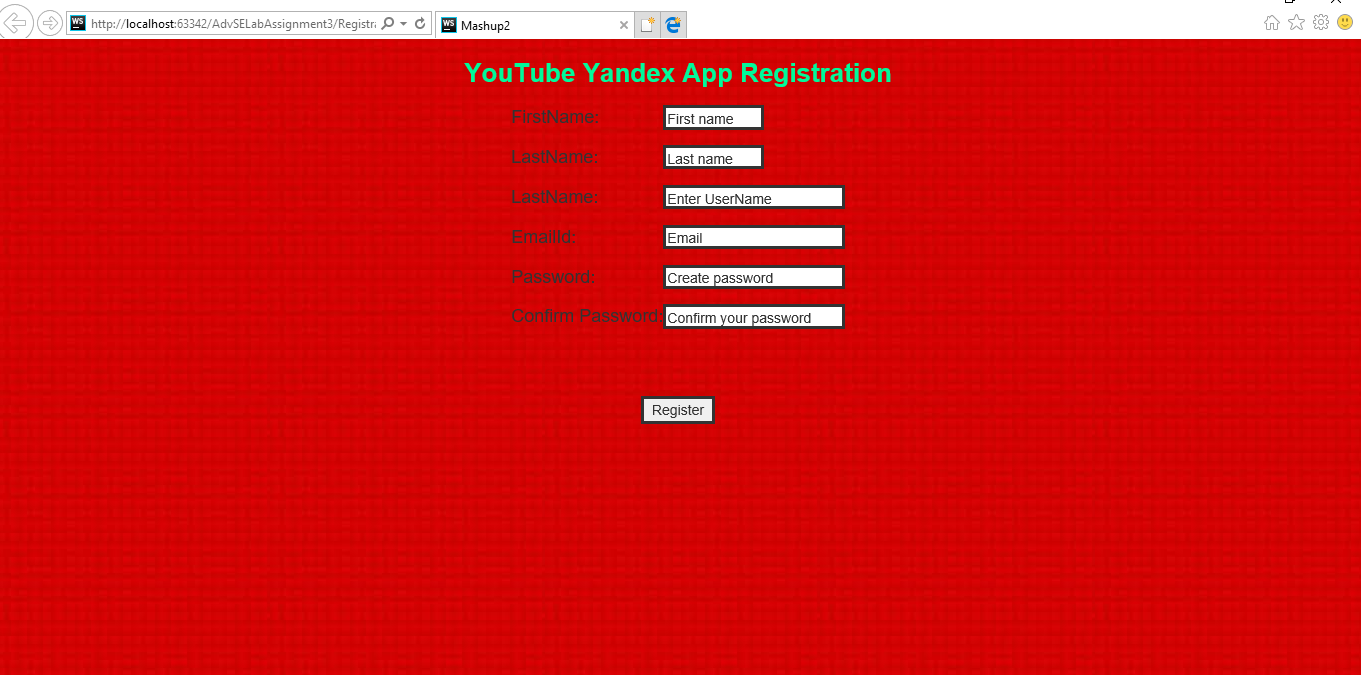
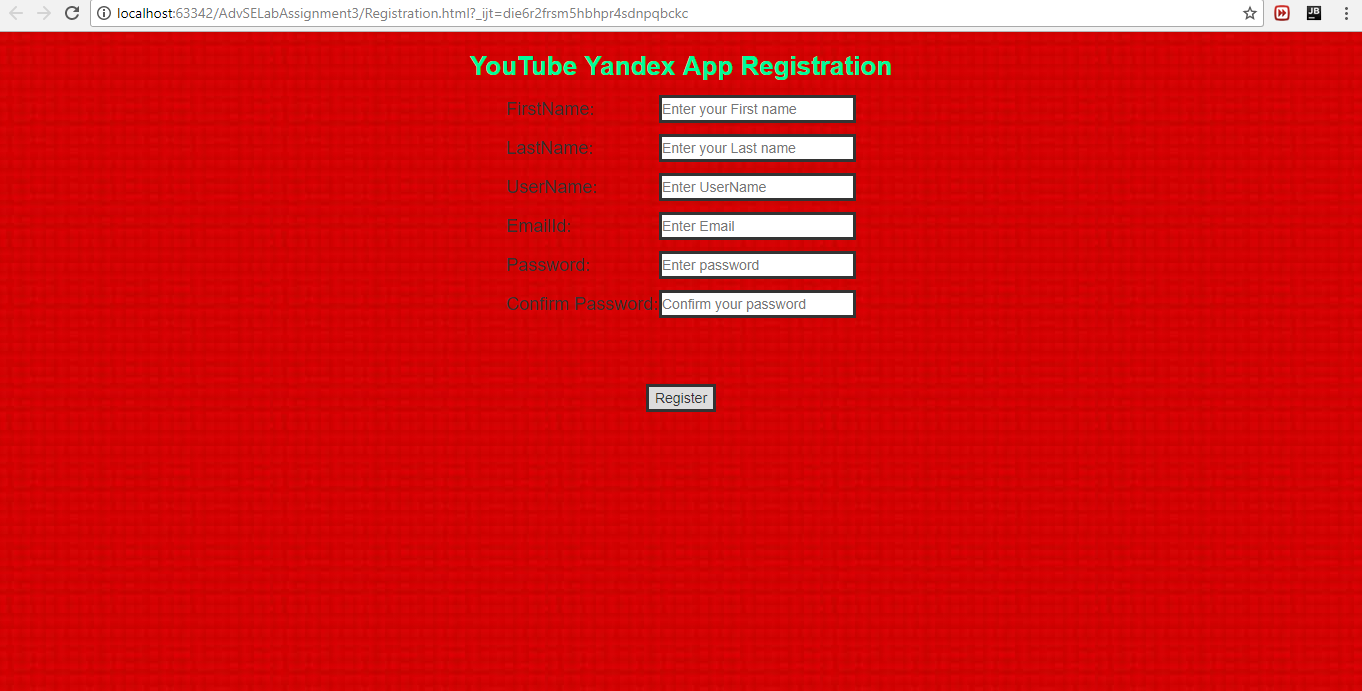
MODIFIED
MODIFIED

Changed region(s): [[0.0, 0.0, 1.0, 0.4978], [0.4629, 0.5289, 0.5246, 0.6533]]

diff --git a/source/AdvSELabAssignment3/Registration.html b/source/AdvSELabAssignment3/Registration.html
@@ -38,11 +38,11 @@
         <table align="center">
             <tr>
                 <td><h4>FirstName:</h4></td>
-                <td><input id="fn" style="border: solid" type="text"  name="firstName" placeholder="First name" size="10" value=""/></td>
+                <td><input id="fn" style="border: solid" type="text"  name="firstName" placeholder="Enter your First name" size="23" value=""/></td>
             </tr>
             <tr>
                 <td><h4>LastName:</h4></td>
-                <td><input id="ln" type="text" style="border: solid" name="lastName" placeholder="Last name" size="10" value=""/></td>
+                <td><input id="ln" type="text" style="border: solid" name="lastName" placeholder="Enter your Last name" size="23" value=""/></td>
             </tr>
             <tr>
                 <td><h4>UserName:</h4></td>
@@ -50,11 +50,11 @@
             </tr>
             <tr>
                 <td><h4>EmailId:</h4></td>
-                <td><input id="email" type="email" style="border: solid" name="email" placeholder="Email" size=23></td>
+                <td><input id="email" type="email" style="border: solid" name="email" placeholder="Enter Email" size=23></td>
             </tr>
             <tr>
                 <td><h4>Password:</h4></td>
-                <td><input id="password" style="border: solid" type="password" name="password12" placeholder="Create password" size=23></td>
+                <td><input id="password" style="border: solid" type="password" name="password12" placeholder="Enter password" size=23></td>
             </tr>
             <tr>
                 <td><h4>Confirm Password:</h4></td>
